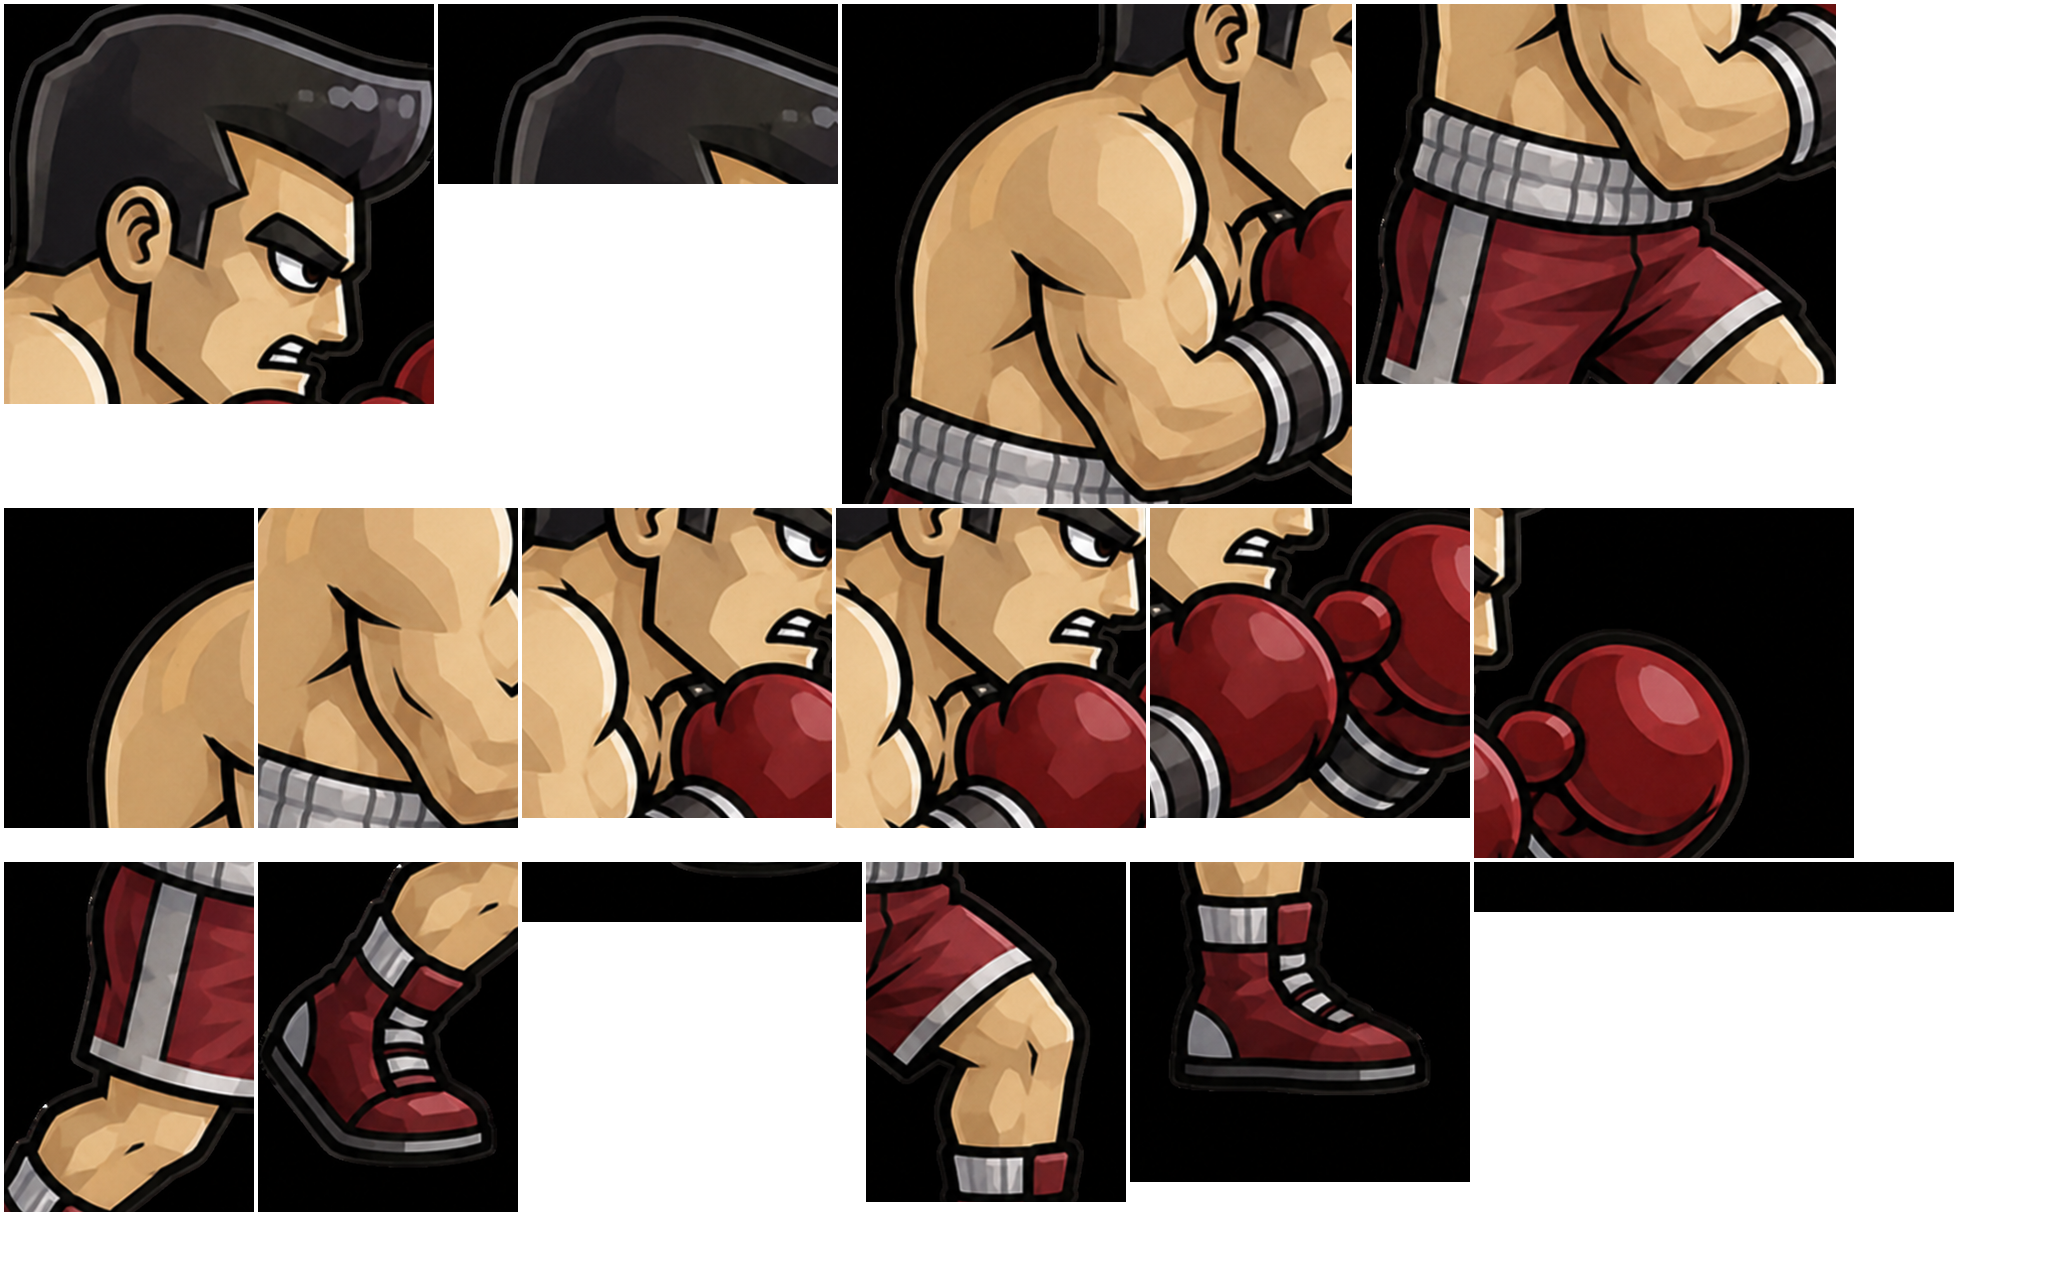
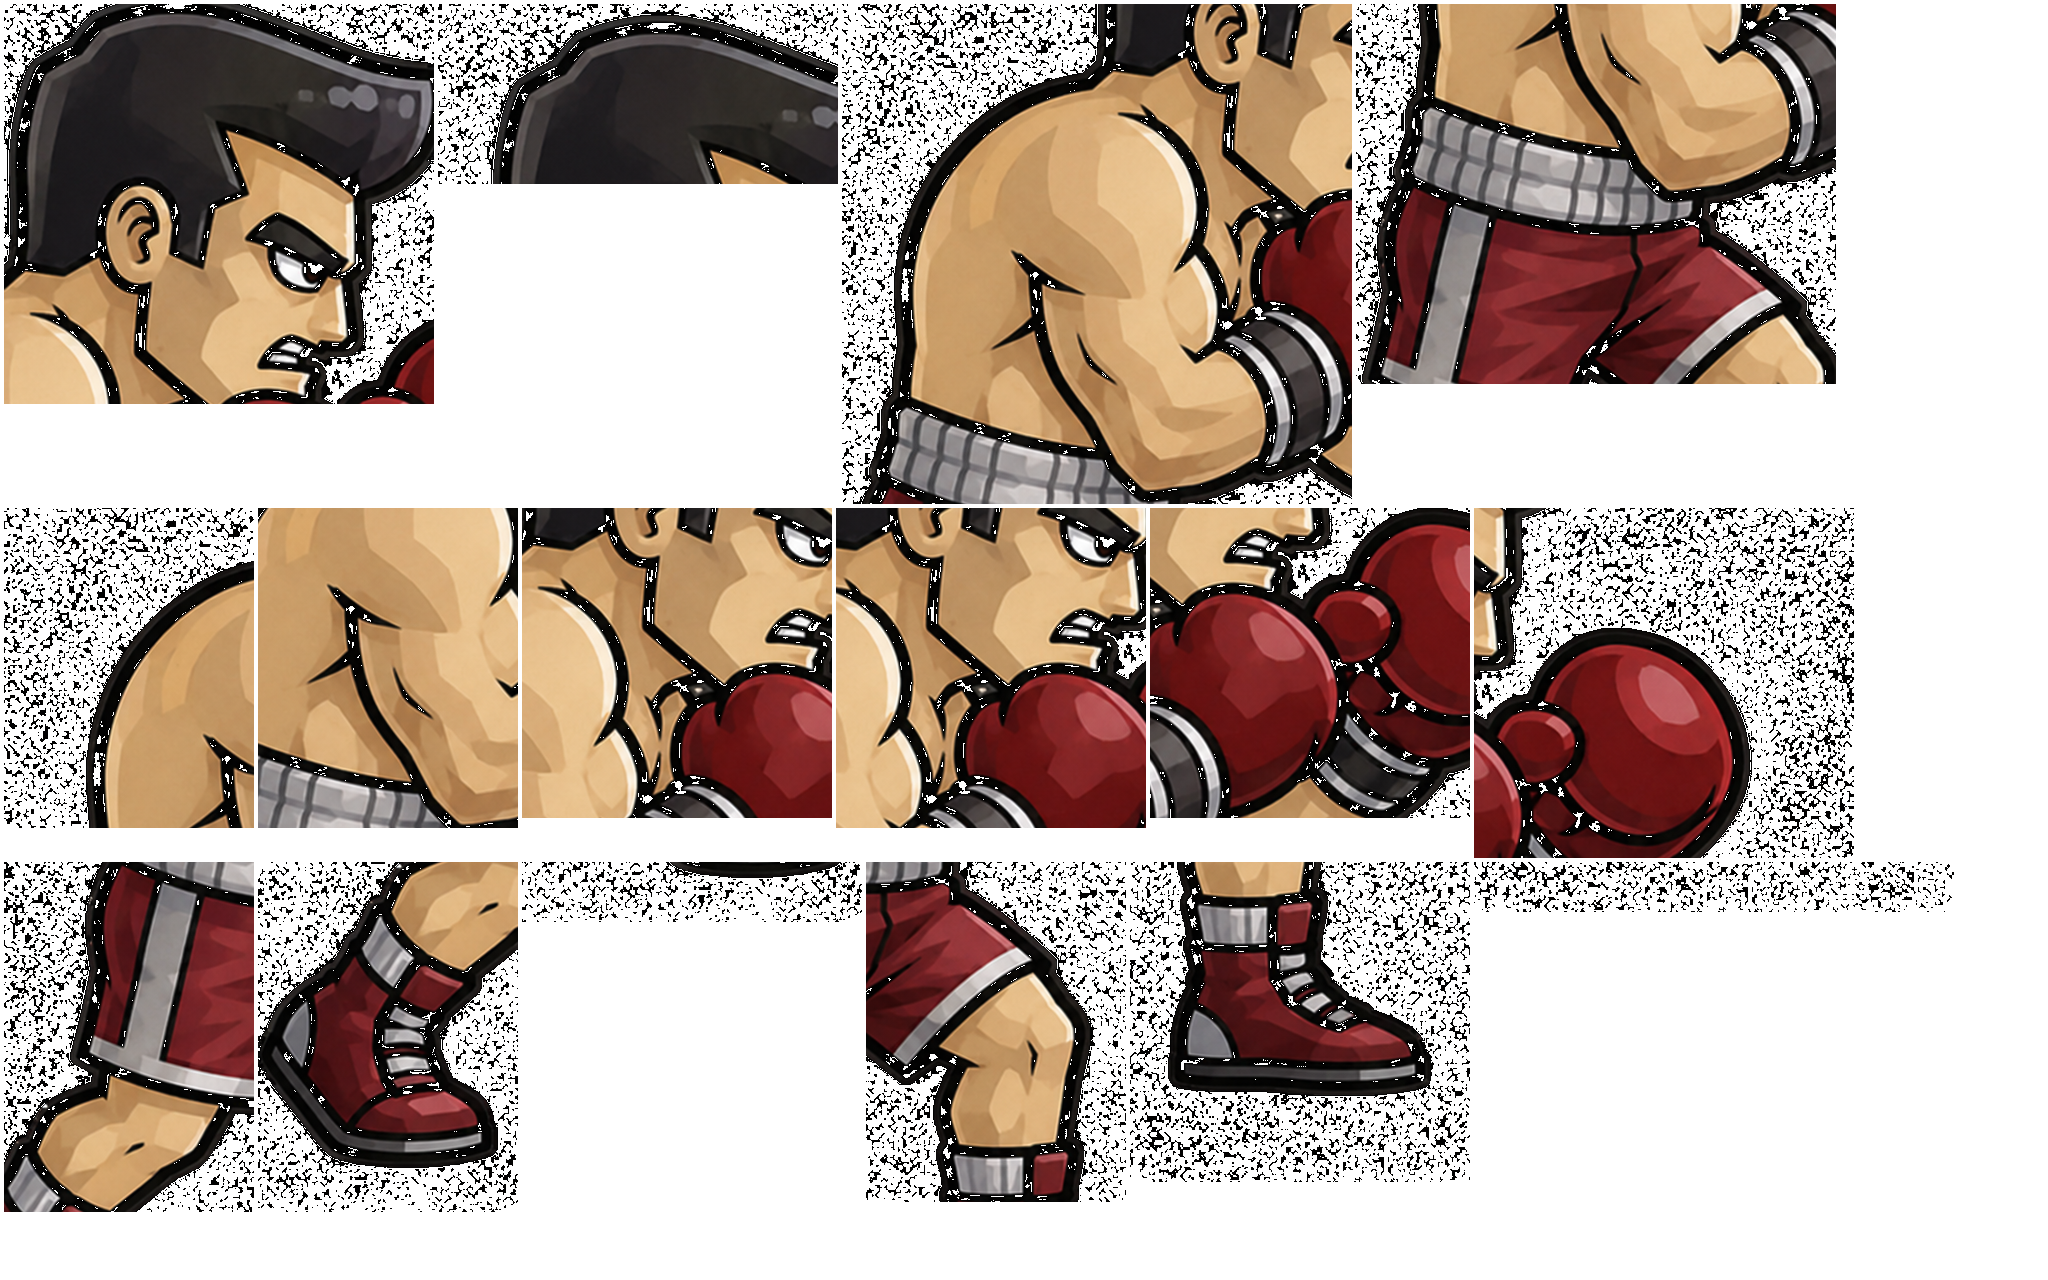
Fix Spine rig modes and boxer transparency

diff --git a/apps/frontend/src/components/SpineCharacter/SpineCharacter.tsx b/apps/frontend/src/components/SpineCharacter/SpineCharacter.tsx
@@ -63,24 +63,30 @@ const MIX_TIMES: Array<[string, string, number]> = [
 // scale: rendered size relative to canvas.
 //   skelJson.scale is set to 1 (no pre-baking); skeleton.scaleX/Y = cfg.scale.
 // Falls back to 'spineboy' for unknown skins.
-export const SPINE_SKIN_CONFIG: Record<string, { dir: string; scale: number; yOffset?: number; autoFit?: boolean }> = {
-  default:   { dir: 'spineboy', scale: 0.38, yOffset: 0 },
-  robot:     { dir: 'spineboy', scale: 0.38, yOffset: 0 },
-  boxer:     { dir: 'boxer',    scale: 1.0,  yOffset: 0, autoFit: true },
-  gladiator: { dir: 'gladiator', scale: 1.0,  yOffset: 0, autoFit: true },
-  cosmonaut: { dir: 'spineboy', scale: 0.38, yOffset: 0 },
-  ninja:     { dir: 'spineboy', scale: 0.38, yOffset: 0 },
-  mage:      { dir: 'spineboy', scale: 0.38, yOffset: 0 },
-  paladin:   { dir: 'spineboy', scale: 0.38, yOffset: 0 },
-  sniper:    { dir: 'spineboy', scale: 0.38, yOffset: 0 },
-  tank:      { dir: 'spineboy', scale: 0.38, yOffset: 0 },
-  vampire:   { dir: 'spineboy', scale: 0.38, yOffset: 0 },
-  samurai:   { dir: 'spineboy', scale: 0.38, yOffset: 0 },
-  phantom:   { dir: 'spineboy', scale: 0.38, yOffset: 0 },
-  engineer:  { dir: 'spineboy', scale: 0.38, yOffset: 0 },
-  berserker: { dir: 'spineboy', scale: 0.38, yOffset: 0 },
-  scorpion:  { dir: 'spineboy', scale: 0.38, yOffset: 0 },
-  plague:    { dir: 'spineboy', scale: 0.38, yOffset: 0 },
+export const SPINE_SKIN_CONFIG: Record<string, {
+  dir: string
+  scale: number
+  yOffset?: number
+  autoFit?: boolean
+  flipCanvasY?: boolean
+}> = {
+  default:   { dir: 'spineboy',  scale: 0.38, yOffset: 0,  flipCanvasY: true },
+  robot:     { dir: 'spineboy',  scale: 0.38, yOffset: 0,  flipCanvasY: true },
+  boxer:     { dir: 'boxer',     scale: 0.58, yOffset: 6,  autoFit: true, flipCanvasY: true },
+  gladiator: { dir: 'gladiator', scale: 0.45, yOffset: 54, flipCanvasY: true },
+  cosmonaut: { dir: 'spineboy',  scale: 0.38, yOffset: 0,  flipCanvasY: true },
+  ninja:     { dir: 'spineboy',  scale: 0.38, yOffset: 0,  flipCanvasY: true },
+  mage:      { dir: 'spineboy',  scale: 0.38, yOffset: 0,  flipCanvasY: true },
+  paladin:   { dir: 'spineboy',  scale: 0.38, yOffset: 0,  flipCanvasY: true },
+  sniper:    { dir: 'spineboy',  scale: 0.38, yOffset: 0,  flipCanvasY: true },
+  tank:      { dir: 'spineboy',  scale: 0.38, yOffset: 0,  flipCanvasY: true },
+  vampire:   { dir: 'spineboy',  scale: 0.38, yOffset: 0,  flipCanvasY: true },
+  samurai:   { dir: 'spineboy',  scale: 0.38, yOffset: 0,  flipCanvasY: true },
+  phantom:   { dir: 'spineboy',  scale: 0.38, yOffset: 0,  flipCanvasY: true },
+  engineer:  { dir: 'spineboy',  scale: 0.38, yOffset: 0,  flipCanvasY: true },
+  berserker: { dir: 'spineboy',  scale: 0.38, yOffset: 0,  flipCanvasY: true },
+  scorpion:  { dir: 'spineboy',  scale: 0.38, yOffset: 0,  flipCanvasY: true },
+  plague:    { dir: 'spineboy',  scale: 0.38, yOffset: 0,  flipCanvasY: true },
 }
 
 interface SpineRefs {
@@ -90,6 +96,7 @@ interface SpineRefs {
   ctx:      CanvasRenderingContext2D
   scale:    number
   autoFit:  boolean
+  flipCanvasY: boolean
 }
 
 function computeAutoFitScale(skeleton: Skeleton, canvas: HTMLCanvasElement, cfgScale: number) {
@@ -118,6 +125,7 @@ function positionSkeleton(
   scale: number,
   flipX: boolean,
   yOffset = 0,
+  flipCanvasY = false,
 ) {
   skeleton.scaleX = flipX ? -scale : scale
   skeleton.scaleY = scale
@@ -125,10 +133,14 @@ function positionSkeleton(
 
   const bounds = skeleton.getBoundsRect()
   const targetCenterX = canvas.width / 2
-  const targetBottomY = canvas.height - 6 - yOffset
+  const targetBottomY = flipCanvasY
+    ? 6 + yOffset
+    : canvas.height - 6 - yOffset
 
   skeleton.x += targetCenterX - (bounds.x + bounds.width / 2)
-  skeleton.y += targetBottomY - (bounds.y + bounds.height)
+  skeleton.y += flipCanvasY
+    ? targetBottomY - bounds.y
+    : targetBottomY - (bounds.y + bounds.height)
   skeleton.updateWorldTransform(Physics.update)
 }
 
@@ -211,12 +223,13 @@ export default function SpineCharacter({ skinId, action, turnKey, flipX = false,
         skeleton.updateWorldTransform(Physics.update)
 
         const autoFit = Boolean(cfg.autoFit)
+        const flipCanvasY = cfg.flipCanvasY !== false
         const renderScale = autoFit
           ? computeAutoFitScale(skeleton, canvas, cfg.scale)
           : cfg.scale
 
         if (autoFit) {
-          positionSkeleton(skeleton, canvas, renderScale, flipX, cfg.yOffset ?? 0)
+          positionSkeleton(skeleton, canvas, renderScale, flipX, cfg.yOffset ?? 0, flipCanvasY)
         } else {
           skeleton.x = canvas.width / 2
           skeleton.y = cfg.yOffset ?? 0
@@ -225,7 +238,7 @@ export default function SpineCharacter({ skinId, action, turnKey, flipX = false,
           skeleton.updateWorldTransform(Physics.update)
         }
 
-        spineRef.current = { skeleton, state, renderer, ctx, scale: renderScale, autoFit }
+        spineRef.current = { skeleton, state, renderer, ctx, scale: renderScale, autoFit, flipCanvasY }
         setLoaded(true)
         setError(false)
       } catch (e) {
@@ -255,7 +268,7 @@ export default function SpineCharacter({ skinId, action, turnKey, flipX = false,
     if (!loaded || !spineRef.current) return
 
     const canvas = canvasRef.current!
-    const { skeleton, state, renderer, ctx } = spineRef.current
+    const { skeleton, state, renderer, ctx, flipCanvasY } = spineRef.current
 
     let dead = false
 
@@ -271,7 +284,15 @@ export default function SpineCharacter({ skinId, action, turnKey, flipX = false,
       skeleton.update(delta)
       skeleton.updateWorldTransform(Physics.update)
 
-      renderer.draw(skeleton)
+      if (flipCanvasY) {
+        ctx.save()
+        ctx.translate(0, canvas.height)
+        ctx.scale(1, -1)
+        renderer.draw(skeleton)
+        ctx.restore()
+      } else {
+        renderer.draw(skeleton)
+      }
 
       rafRef.current = requestAnimationFrame(loop)
     }
@@ -321,11 +342,11 @@ export default function SpineCharacter({ skinId, action, turnKey, flipX = false,
   useEffect(() => {
     if (!spineRef.current) return
     const canvas = canvasRef.current
-    const { skeleton, scale, autoFit } = spineRef.current
+    const { skeleton, scale, autoFit, flipCanvasY } = spineRef.current
     const yOffset = SPINE_SKIN_CONFIG[skinId]?.yOffset ?? 0
 
     if (autoFit && canvas) {
-      positionSkeleton(skeleton, canvas, scale, flipX, yOffset)
+      positionSkeleton(skeleton, canvas, scale, flipX, yOffset, flipCanvasY)
       return
     }
 